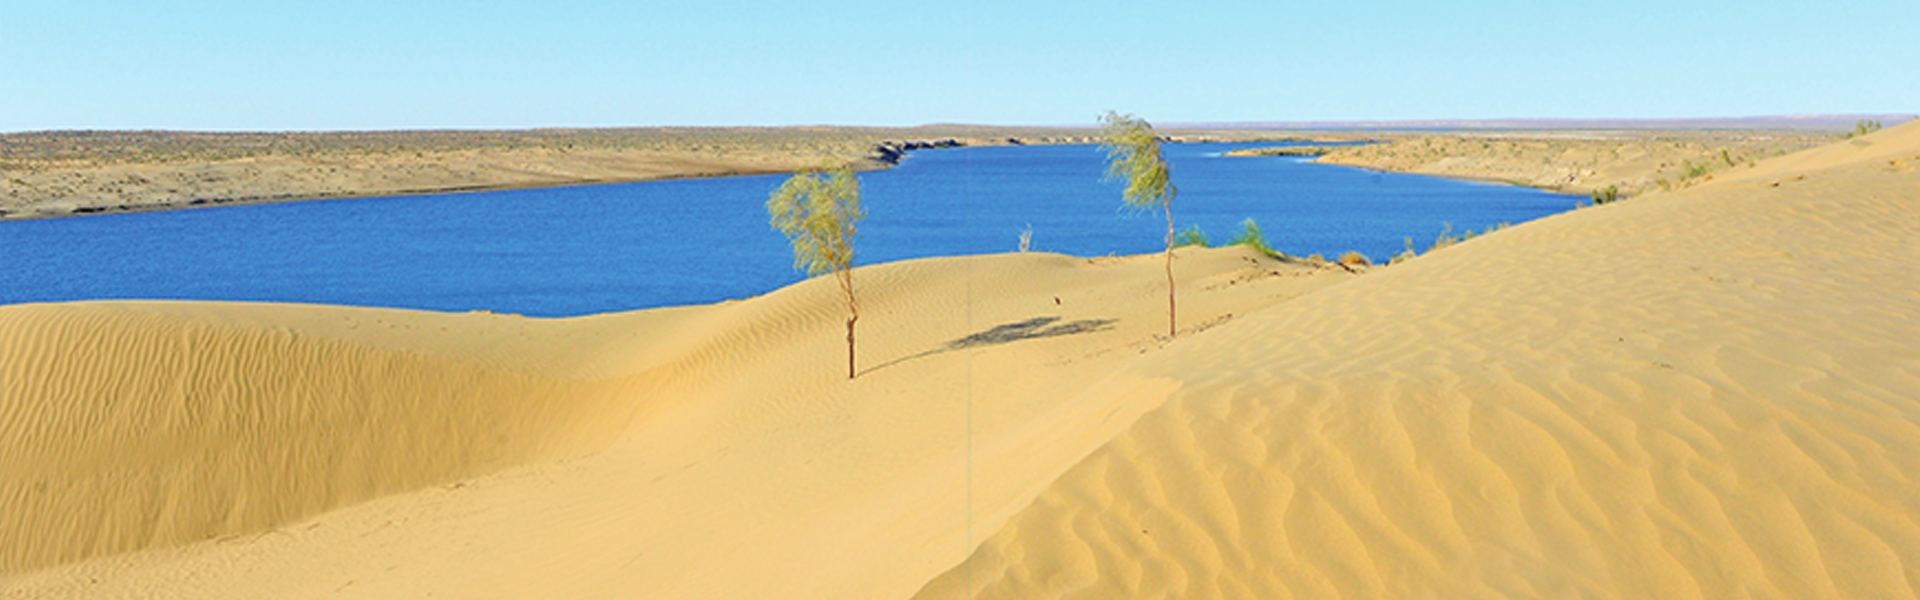
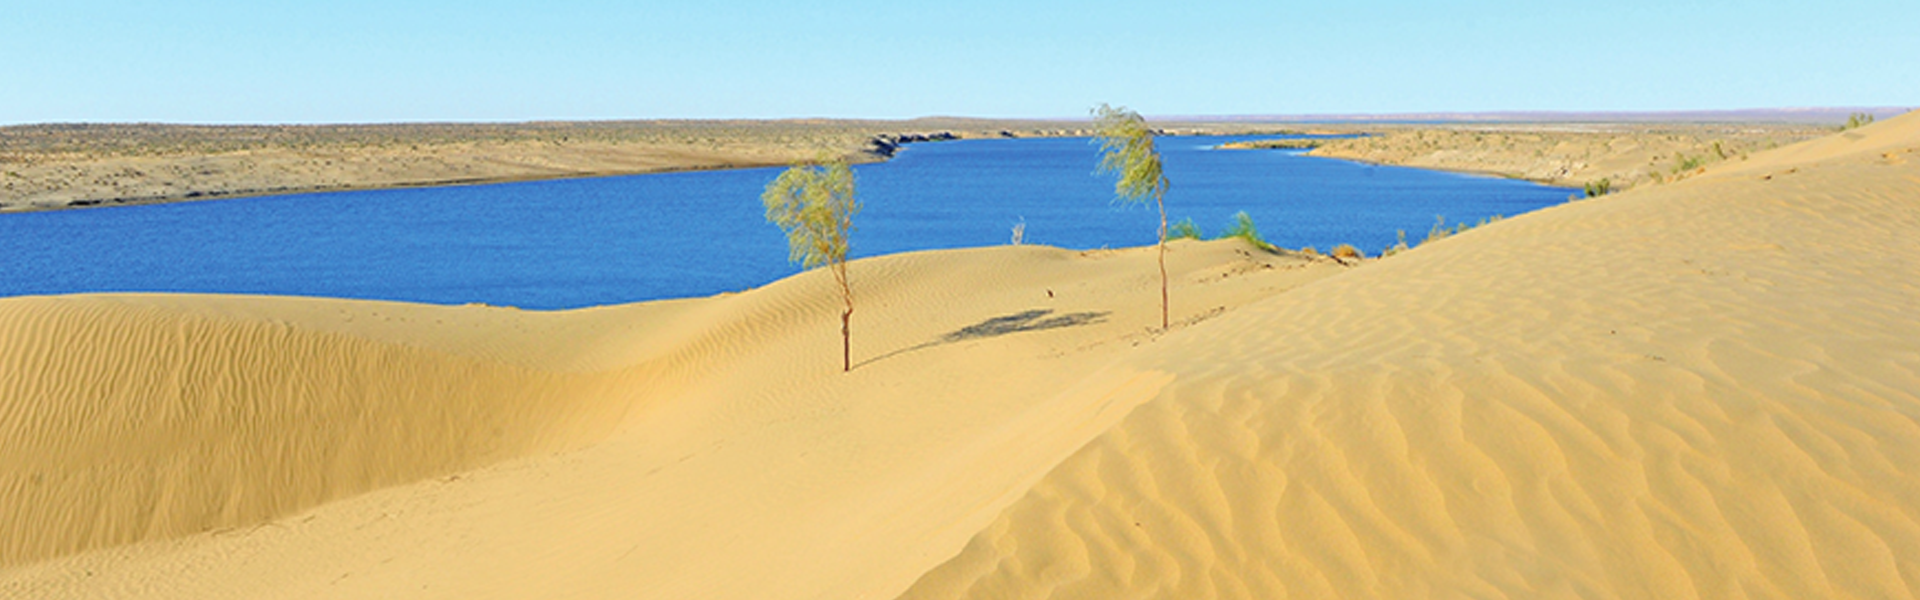
add tours pictures

diff --git a/src/Layout/Header.js b/src/Layout/Header.js
@@ -312,11 +312,11 @@ export default function Header({ initialValues }) {
                                                   </div>
 
                                                   <div className="relative max-w-[200px]">
-                                                    <h4 className="mb-3 text-2xl leading-[30px] lg:text-[28px]">
+                                                    <h4 className="mb-3 text-2xl leading-[30px] lg:text-[28px] text-white">
                                                       {promo.title}
                                                     </h4>
 
-                                                    <p className="text-dark-900 text-md mb-5">
+                                                    <p className="text-dark-900 text-md mb-5 text-white">
                                                       {promo.text}
                                                     </p>
 